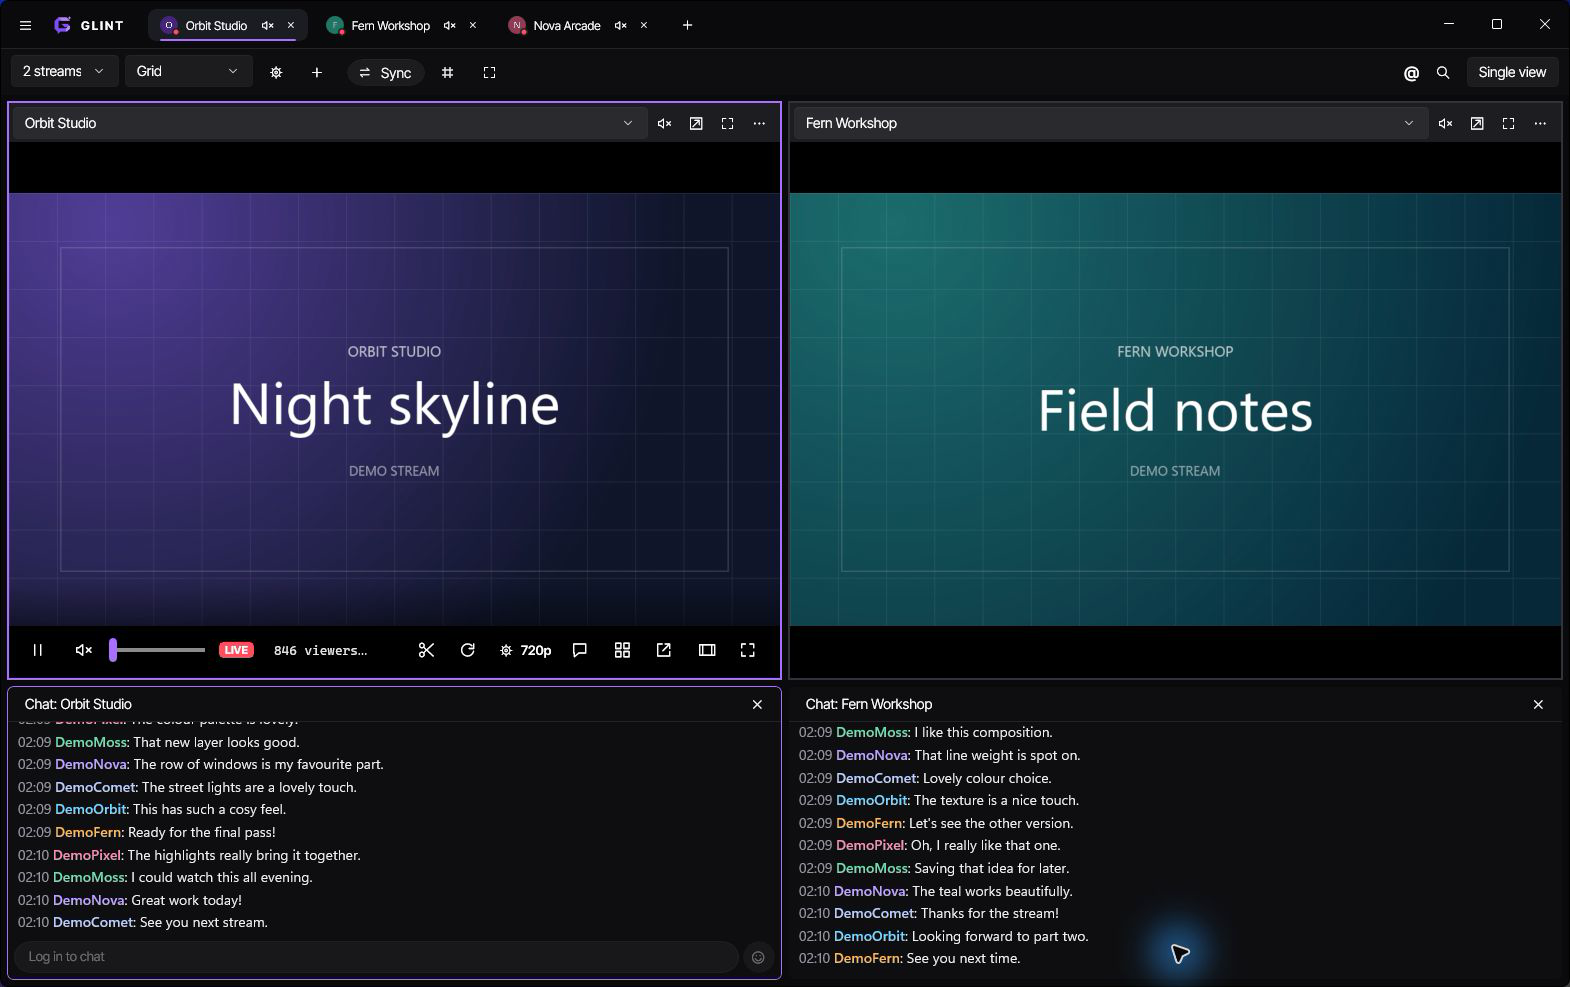
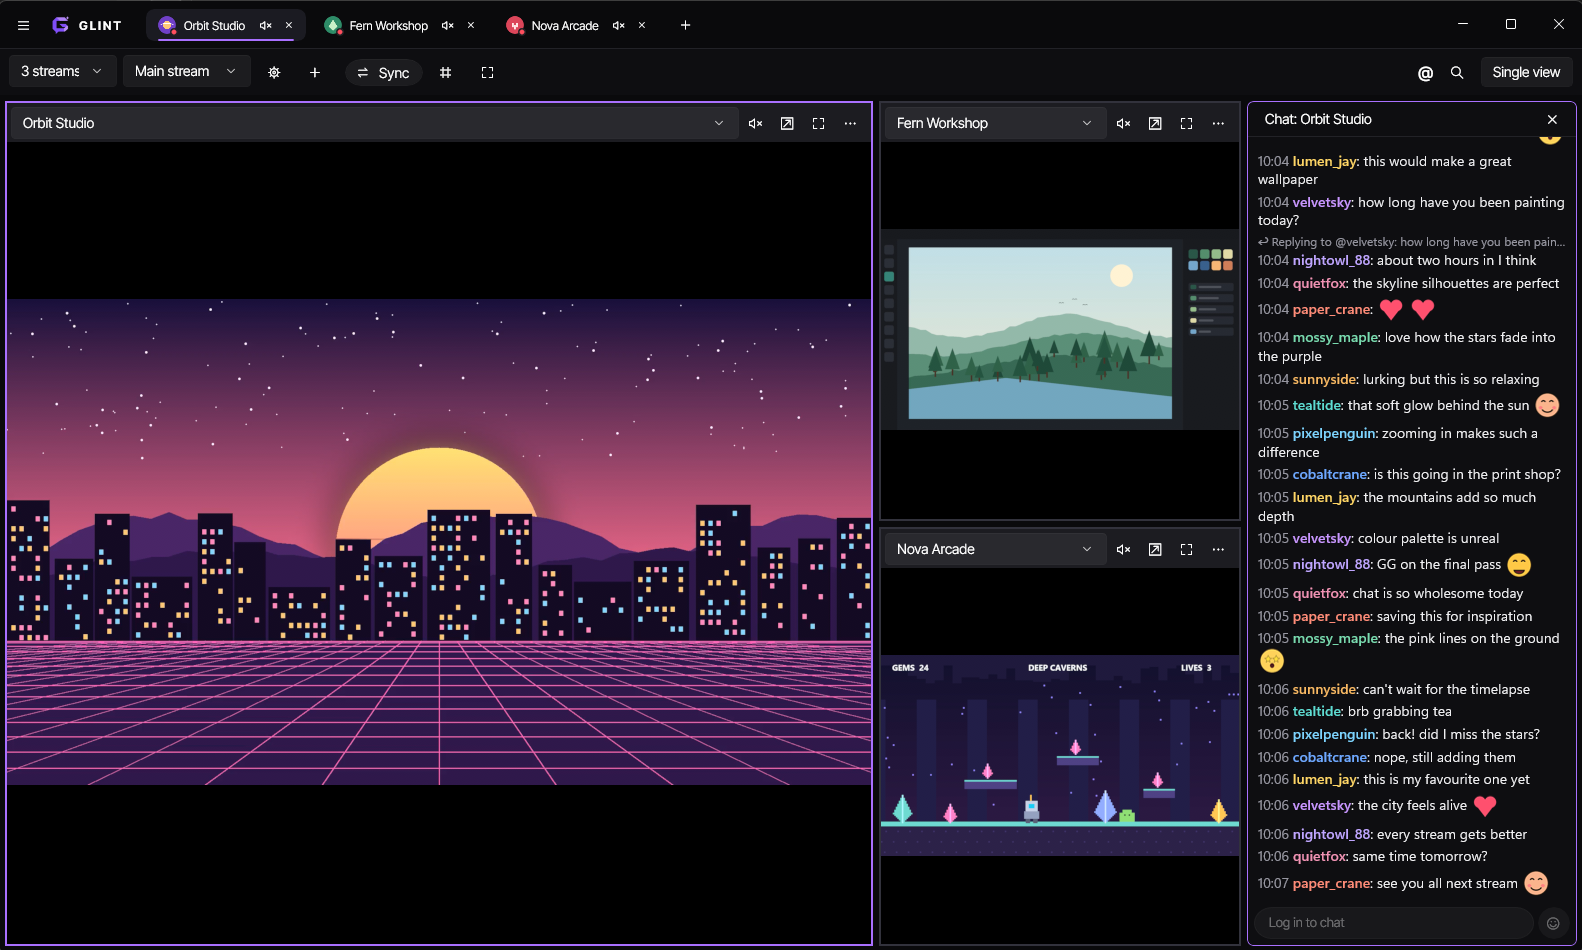
Refresh README screenshots
Clean captures without a cursor or desktop edges, with illustrated demo streams, emotes and a fuller chat.

diff --git a/README.md b/README.md
@@ -45,11 +45,11 @@ Watching and reading chat work without an account. Sign in with Twitch for sendi
 
 ## Demo screenshots
 
-The Broadcast interface in single view and multiview, shown with fictional channels, chat and placeholder video.
+Glint in single view and multiview, shown with fictional channels and chat.
 
 ![Glint in single view with player controls, channel tabs and chat](docs/screenshots/single-view.png)
 
-![Glint multiview with two players and a separate chat below each](docs/screenshots/multiview.png)
+![Glint multiview with a main stream, two smaller streams and chat on the right](docs/screenshots/multiview.png)
 
 ## Install from source
 
